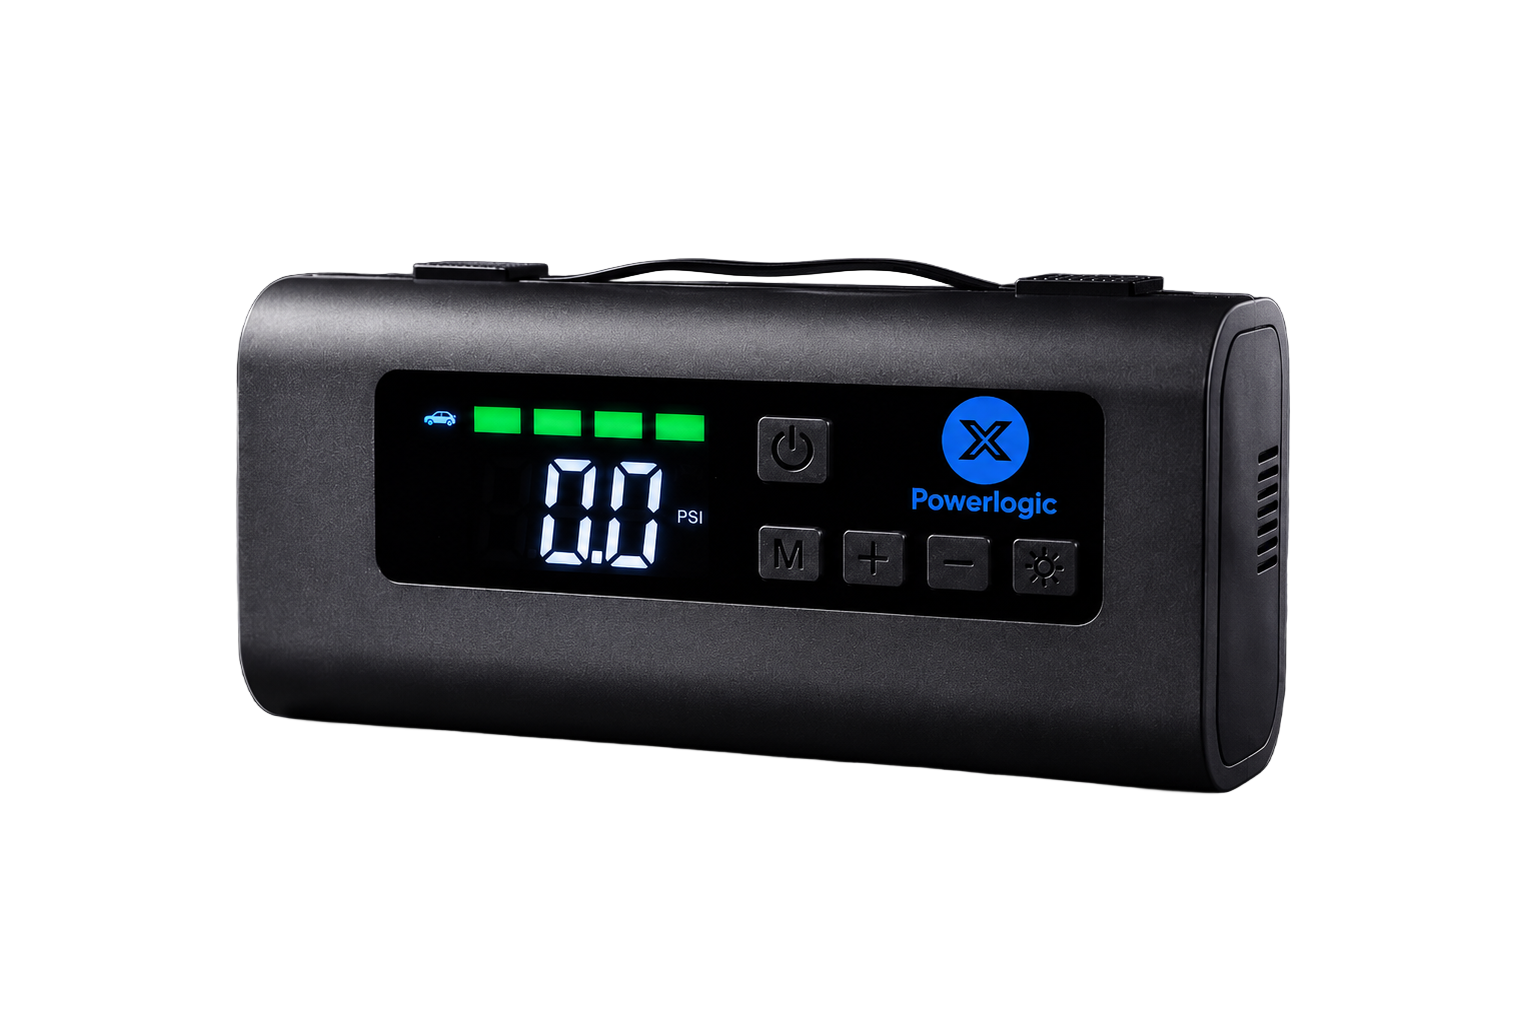
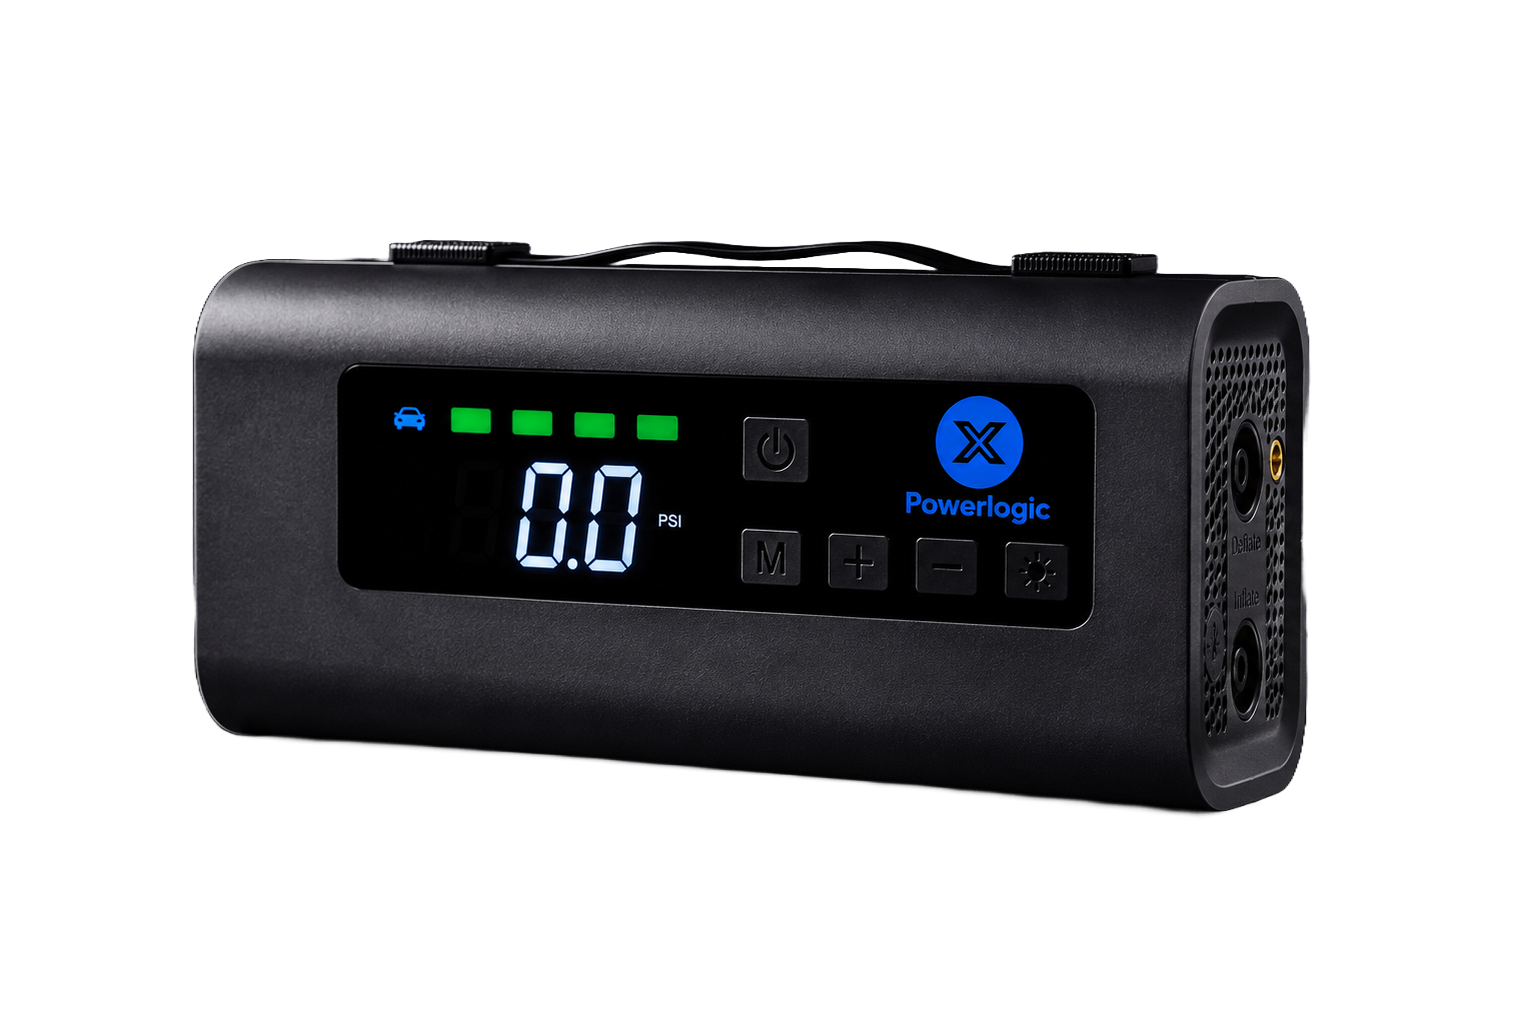
minor edits to the jump starter

Changed region(s): [[0.1249, 0.2121, 0.8744, 0.8182]]

diff --git a/lib/products.ts b/lib/products.ts
@@ -466,7 +466,7 @@ export const catalogProducts: CatalogProduct[] = [
     specs: [
       { label: 'Connection', value: 'USB-C, HDMI' },
       { label: 'Use', value: 'Car Infotainment' },
-      { label: 'RAM', value: '8 GB' },
+      { label: 'RAM', value: '4 GB' },
       { label: 'Storage', value: '64 GB' },
     ],
     features: [
@@ -515,14 +515,14 @@ export const catalogProducts: CatalogProduct[] = [
     gallery: [
         '/products/car-accessories/jump-starter/hero-p18.png',
         '/products/car-accessories/jump-starter/alternate-p18.png',
-        '/products/car-accessories/jump-starter/detail-p18.png',
+        '/products/car-accessories/jump-starter/lifestyle-p18-2.png',
         '/products/car-accessories/jump-starter/lifestyle-p18.png',
     ],
     accentColor: '#7B5CFF',
     specs: [
       { label: 'Function', value: 'Jump Start + Inflate' },
       { label: 'Battery Capacity', value: '14800mAH' },
-      { label: 'Format', value: 'Portable' },
+      { label: 'Peak Current', value: '2000A' },
       { label: 'Total Output', value: '15W' },
     ],
     features: [